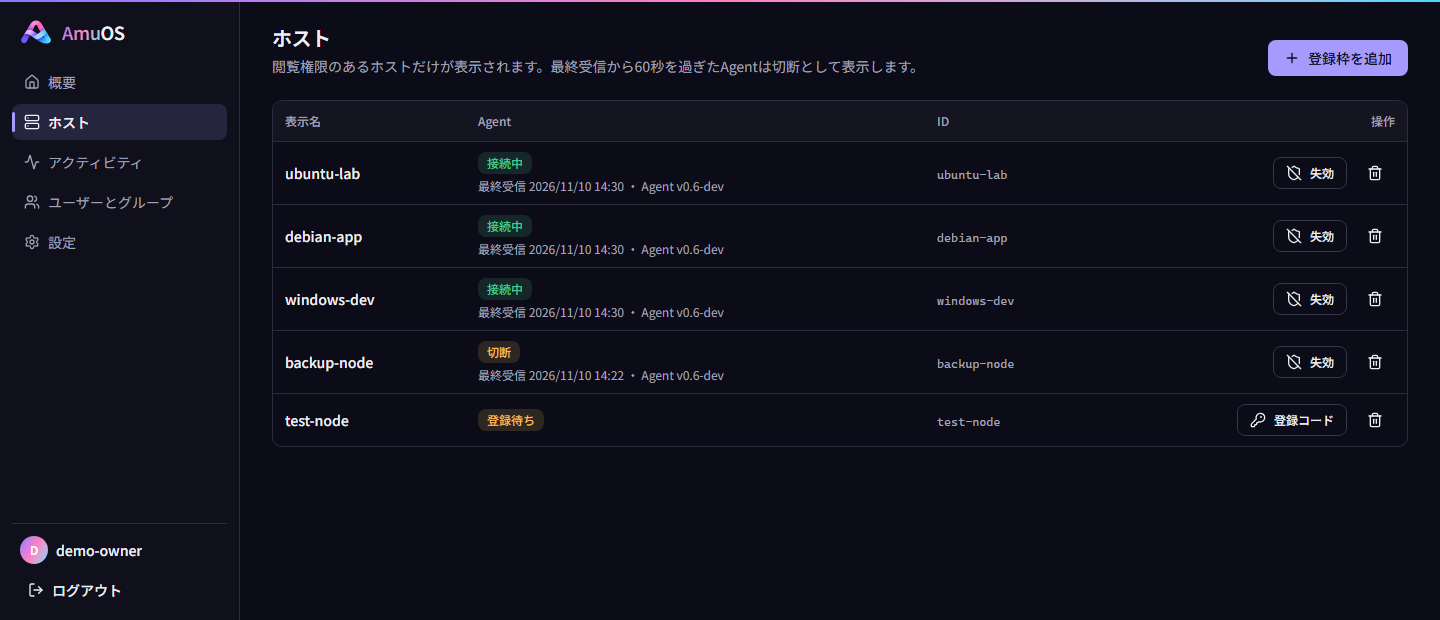
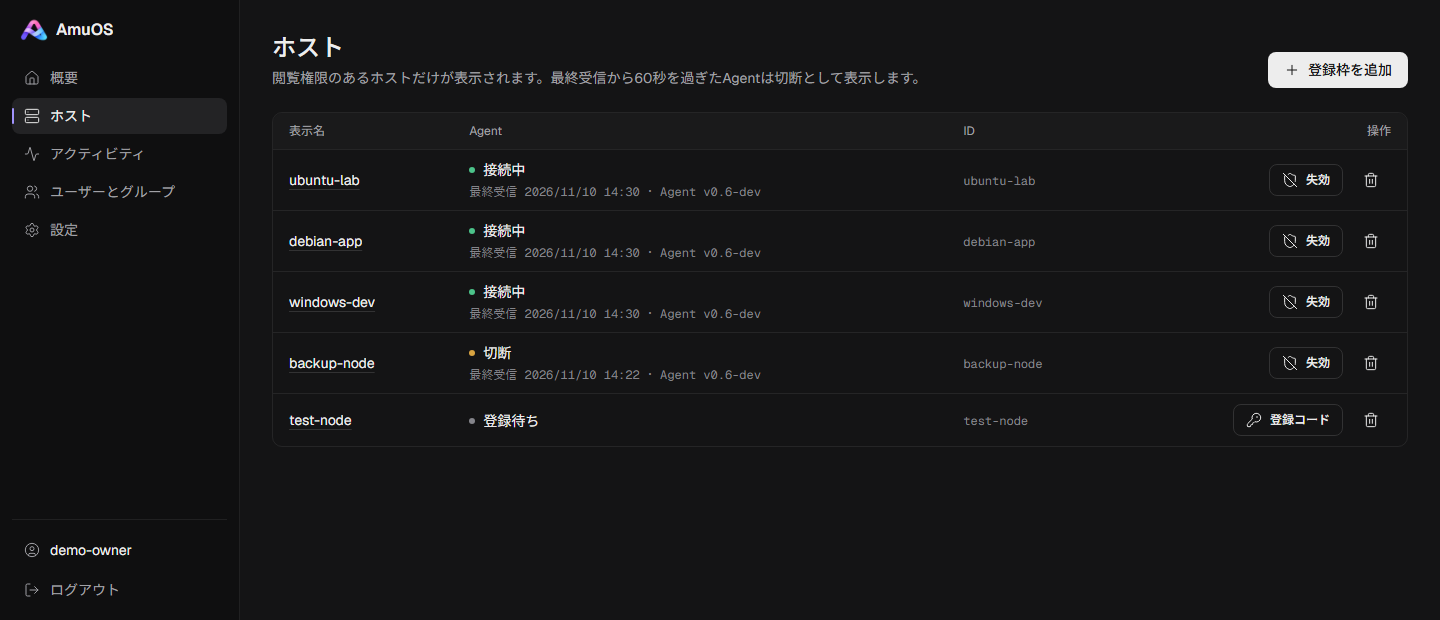
docs: refresh screenshots and record the web UI restyle

diff --git a/docs/PROGRESS.md b/docs/PROGRESS.md
@@ -362,3 +362,13 @@ Windows amd64 / Go 1.27.3で`go fmt ./...`・全Goテスト・vetが成功。通
 Web check・既存14テスト・build、実Control Planeの追加アプリ登録E2Eが成功した。既存E2Eのうち5件も同じ実行で成功し、Tempアクセスで失敗した実AgentファイルE2Eは通常ユーザーで再実行して成功した（合計7件）。新しい画面は画像で確認した。実行Adapterを追加していないため、アプリのデプロイ/実行成功を示すものではない。
 
 日英README・PLAN・API/認可表・TESTINGを実装範囲に合わせ、日本語AI開示を保持した。Linuxでの実行・race・配布物/実サービス・リモートCIは今回未実施。公開配布版はv0.6.0のまま。次はManaged Serviceの隔離・秘密値・変更タスク・実行/照合/切戻しの設計と実装に進む。
+
+## Web画面の見た目とホスト詳細の構成の見直し（2026-11-14）
+
+Web画面の配色・文字・部品を整理した。面と文字は無彩色の階調に揃え、ロゴの紫は現在の選択の印とグラフの主系列だけに使う。グラデーションの文字・線・背景は使わない。状態は小さな点と文字で示し、取得時刻は等幅の表記に揃えた。画面の機能・文言の意味・APIは変えていない。
+
+ホスト詳細を「概要・ファイル・アプリ・タスク・サービス」のタブに分けた。概要には現在の値・履歴・ホスト情報を置く。選んだタブはURLの`tab`に保持し、再読み込みで同じタブへ戻る。切り替えてもファイルの一覧や入力中の内容は保持する。画面のルートは増やしていない。ファイル管理・アプリ登録・サービスの状態は、ほかの画面と同じ表・入力部品に揃えた。
+
+英数字の表示用に、Geist と Geist Mono（SIL Open Font License 1.1）のラテン文字部分を配布物へ同梱した。外部からは読み込まない。日本語はこれまでどおりOSのフォントで表示する。Webビルドのライセンス一覧にフォントが含まれないため、`scripts/licenses` がフォントのライセンス全文を `THIRD_PARTY_LICENSES.md` に加え、見つからない場合は失敗するようにした。
+
+Windows amd64で、Webの`vp check`・14テスト・build、実Control Planeと実AgentのPlaywright全7件が成功した（タブの追加に合わせて3件の手順を更新）。実際のCSPのもとでフォントの読み込みと画面例外がないことも、同じE2Eで確認した。ライト・ダークの両テーマを画像で確認した。日英READMEの画面例を、サンプルデータで撮り直した。公開版v0.6.0とは構成・見た目が異なることを両言語に明記した。Linuxでの実行とリモートCIは今回未実施。

diff --git a/README.md b/README.md
@@ -41,19 +41,19 @@ AmuOSは、ホスト・アプリケーション・ファイル・監視・権限
 - [ライセンス](#ライセンス)
 
 <p align="center">
-  <img src="docs/images/files.png" alt="サンプルデータで表示したv0.6のファイル管理。許可ディレクトリの一覧とUTF-8テキスト編集" width="1000">
+  <img src="docs/images/files.png" alt="サンプルデータで表示した開発版のファイル管理。許可ディレクトリの一覧とUTF-8テキスト編集" width="1000">
   <br>
-  <sub>v0.6のファイル管理画面例です。画像は開発時に撮影したもので、ファイル・ホスト名・数値はサンプルデータです。実環境の情報や測定結果ではありません。</sub>
+  <sub>開発版のファイル管理画面例です。公開版のv0.6.0とは、画面の構成や見た目が異なります。画像は開発時に撮影したもので、ファイル・ホスト名・数値はサンプルデータです。実環境の情報や測定結果ではありません。</sub>
 </p>
 
 <details>
 <summary>ホスト詳細・監視グラフ・ホスト一覧・概要の画面例を見る</summary>
 
-以下も開発時にv0.6のUIへサンプルデータを表示して撮影しています。表示は版や構成によって異なります。
+以下も開発版のUIへサンプルデータを表示して撮影しています。表示は版や構成によって異なります。
 
-**ホスト詳細** — 監視値と、許可されたディレクトリのファイルを同じ画面で確認できます。
+**ホスト詳細** — 監視値と履歴を確認できます。ファイル・アプリ登録・タスク・サービスの状態は、タブで切り替えます。
 
-<img src="docs/images/host-detail.png" alt="サンプルデータによるホスト詳細。CPU・メモリなどの監視値と許可ディレクトリのファイル一覧" width="1000">
+<img src="docs/images/host-detail.png" alt="サンプルデータによるホスト詳細。CPU・メモリなどの監視値と履歴グラフ" width="1000">
 
 **監視履歴** — CPU・メモリ・ディスク・ネットワークの推移を確認できます。
 

diff --git a/README.en.md b/README.en.md
@@ -41,19 +41,19 @@ File management lets you list, inspect, transfer, create, edit UTF-8 text, renam
 - [License](#license)
 
 <p align="center">
-  <img src="docs/images/files.png" alt="File management in v0.6, showing an allowed directory and UTF-8 text editing with sample data" width="1000">
+  <img src="docs/images/files.png" alt="File management in the development version, showing an allowed directory and UTF-8 text editing with sample data" width="1000">
   <br>
-  <sub>An example of file management in v0.6, captured during development. Files, host names, and values are sample data, not real environment information or measurements.</sub>
+  <sub>An example of file management in the development version, captured during development. The layout and appearance differ from the published v0.6.0. Files, host names, and values are sample data, not real environment information or measurements.</sub>
 </p>
 
 <details>
 <summary>View host details, monitoring, host list, and overview screenshots</summary>
 
-These screenshots were also captured during development using the v0.6 UI with sample data. The display varies by version and configuration.
+These screenshots were also captured using the development UI with sample data. The display varies by version and configuration.
 
-**Host details** — View monitoring values and files in an allowed directory on the same screen.
+**Host details** — View monitoring values and history. Files, application registrations, tasks, and service status are on separate tabs.
 
-<img src="docs/images/host-detail.png" alt="Host details with sample CPU and memory metrics and a file listing in an allowed directory" width="1000">
+<img src="docs/images/host-detail.png" alt="Host details with sample CPU and memory metrics and history charts" width="1000">
 
 **Monitoring history** — CPU, memory, disk, and network trends.
 
